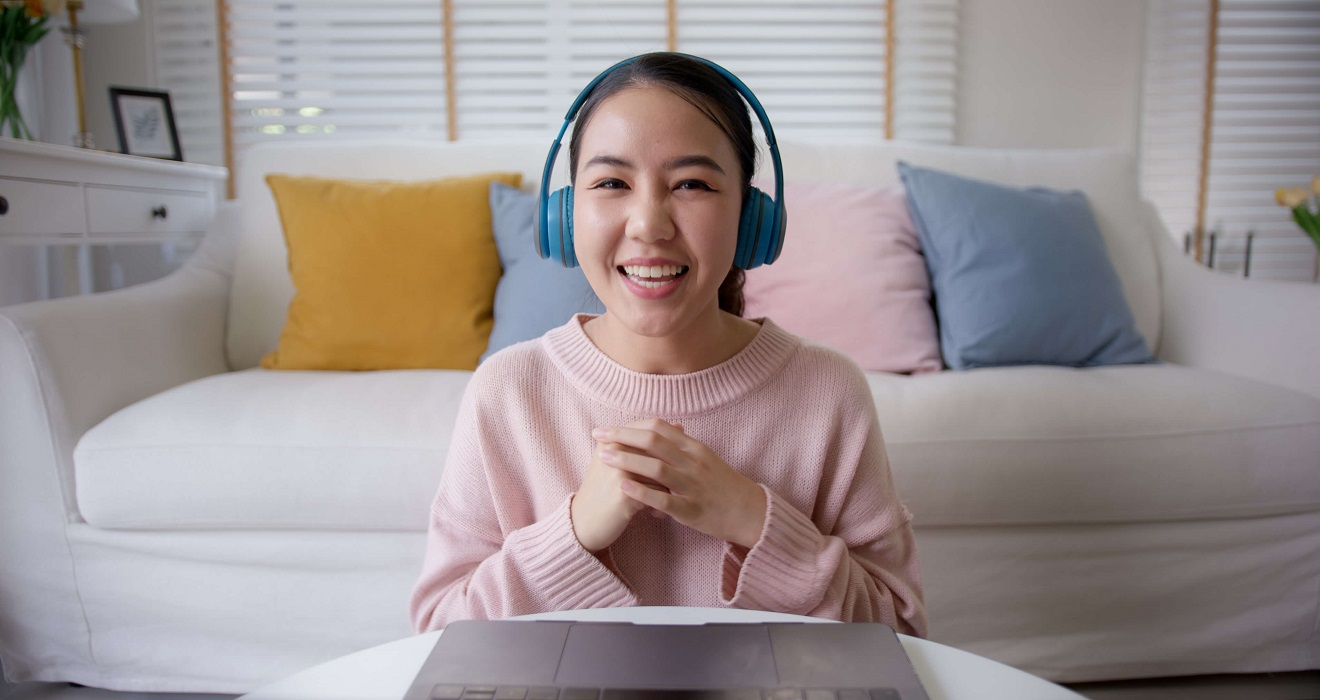
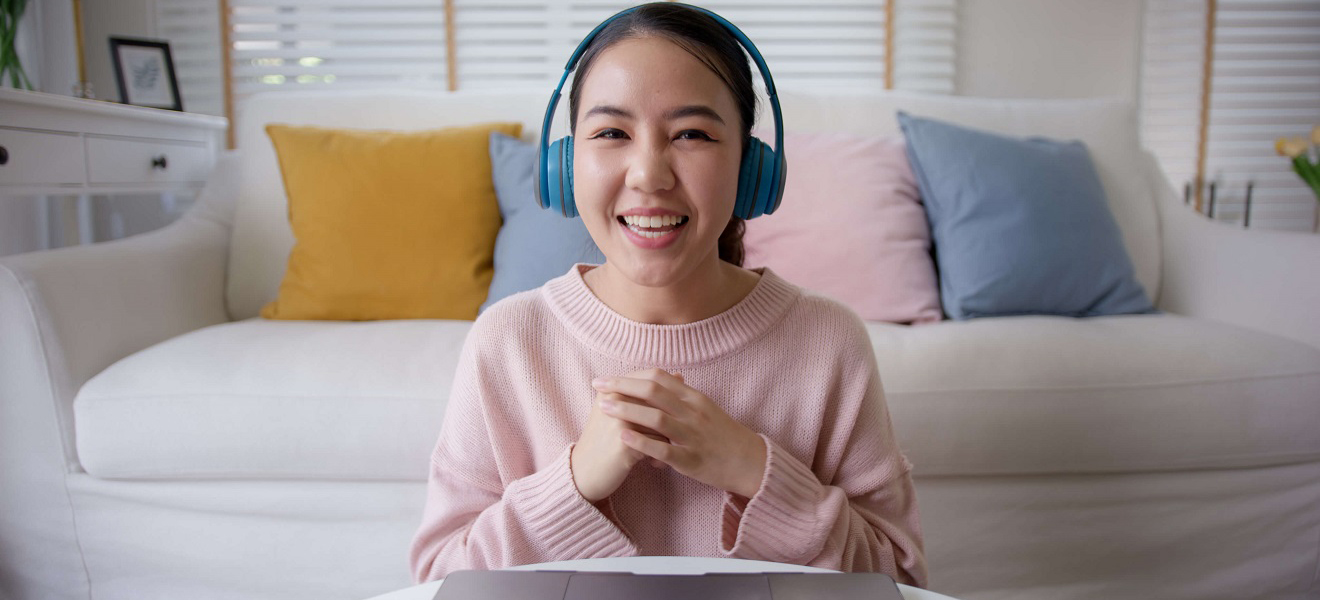
Add Slider

diff --git a/index.html b/index.html
@@ -45,7 +45,65 @@
     </section>
     <!-- End Header Area -->
 
+    <!-- Start Slider Area -->
+    <section class="banner">
+        <div class="container">
+            <div id="carouselExampleIndicators" class="carousel slide" data-bs-ride="true">
+                <div class="carousel-indicators">
+                    <button type="button" data-bs-target="#carouselExampleIndicators" data-bs-slide-to="0"
+                        class="active" aria-current="true" aria-label="Slide 1"></button>
+                    <button type="button" data-bs-target="#carouselExampleIndicators" data-bs-slide-to="1"
+                        aria-label="Slide 2"></button>
+                    <button type="button" data-bs-target="#carouselExampleIndicators" data-bs-slide-to="2"
+                        aria-label="Slide 3"></button>
+                </div>
+                <div class="carousel-inner">
+                    <div class="carousel-item drk active">
+                        <img src="./images/slider/cover-1.png" class="position-relative d-block w-100" alt="...">
+                        <div class="carousel-caption d-flex flex-column justify-content-center h-100" style="top: 0">
+                            <h2 class="fs-1 fw-bold">Get Started Digital Learning</h2>
+                            <p>Some representative placeholder content for the first sldfgdf eholder content for the
+                                first sldfgdfeholder content for the first sldfgdfgdfg dfg dfg dfg dfg dfg dfg dfg dfg
+                                dfg dfgide.</p>
+                            <div class="my-button"><button class="btn btn-info">Cleck Here</button></div>
+                        </div>
 
+                    </div>
+                    <div class="carousel-item drk">
+                        <img src="./images/slider/cover-2.jpg" class="position-relative d-block w-100" alt="...">
+                        <div class="carousel-caption d-flex flex-column justify-content-center h-100" style="top: 0">
+                            <h2 class="fs-1 fw-bold">Get Started Digital Learning</h2>
+                            <p>Some representative placeholder content for the first sldfgdf eholder content for the
+                                first sldfgdfeholder content for the first sldfgdfgdfg dfg dfg dfg dfg dfg dfg dfg dfg
+                                dfg dfgide.</p>
+                            <div class="my-button"><button class="btn btn-info">Cleck Here</button></div>
+                        </div>
+                    </div>
+                    <div class="carousel-item drk">
+                        <img src="./images/slider/cover-3.jpg" class="position-relative d-block w-100" alt="...">
+                        <div class="carousel-caption d-flex flex-column justify-content-center h-100" style="top: 0">
+                            <h2 class="fs-1 fw-bold">Get Started Digital Learning</h2>
+                            <p>Some representative placeholder content for the first sldfgdf eholder content for the
+                                first sldfgdfeholder content for the first sldfgdfgdfg dfg dfg dfg dfg dfg dfg dfg dfg
+                                dfg dfgide.</p>
+                            <div class="my-button"><button class="btn btn-info">Cleck Here</button></div>
+                        </div>
+                    </div>
+                </div>
+                <button class="carousel-control-prev" type="button" data-bs-target="#carouselExampleIndicators"
+                    data-bs-slide="prev">
+                    <span class="carousel-control-prev-icon" aria-hidden="true"></span>
+                    <span class="visually-hidden">Previous</span>
+                </button>
+                <button class="carousel-control-next" type="button" data-bs-target="#carouselExampleIndicators"
+                    data-bs-slide="next">
+                    <span class="carousel-control-next-icon" aria-hidden="true"></span>
+                    <span class="visually-hidden">Next</span>
+                </button>
+            </div>
+        </div>
+    </section>
+    <!-- End Slider Area -->
 
 
 
